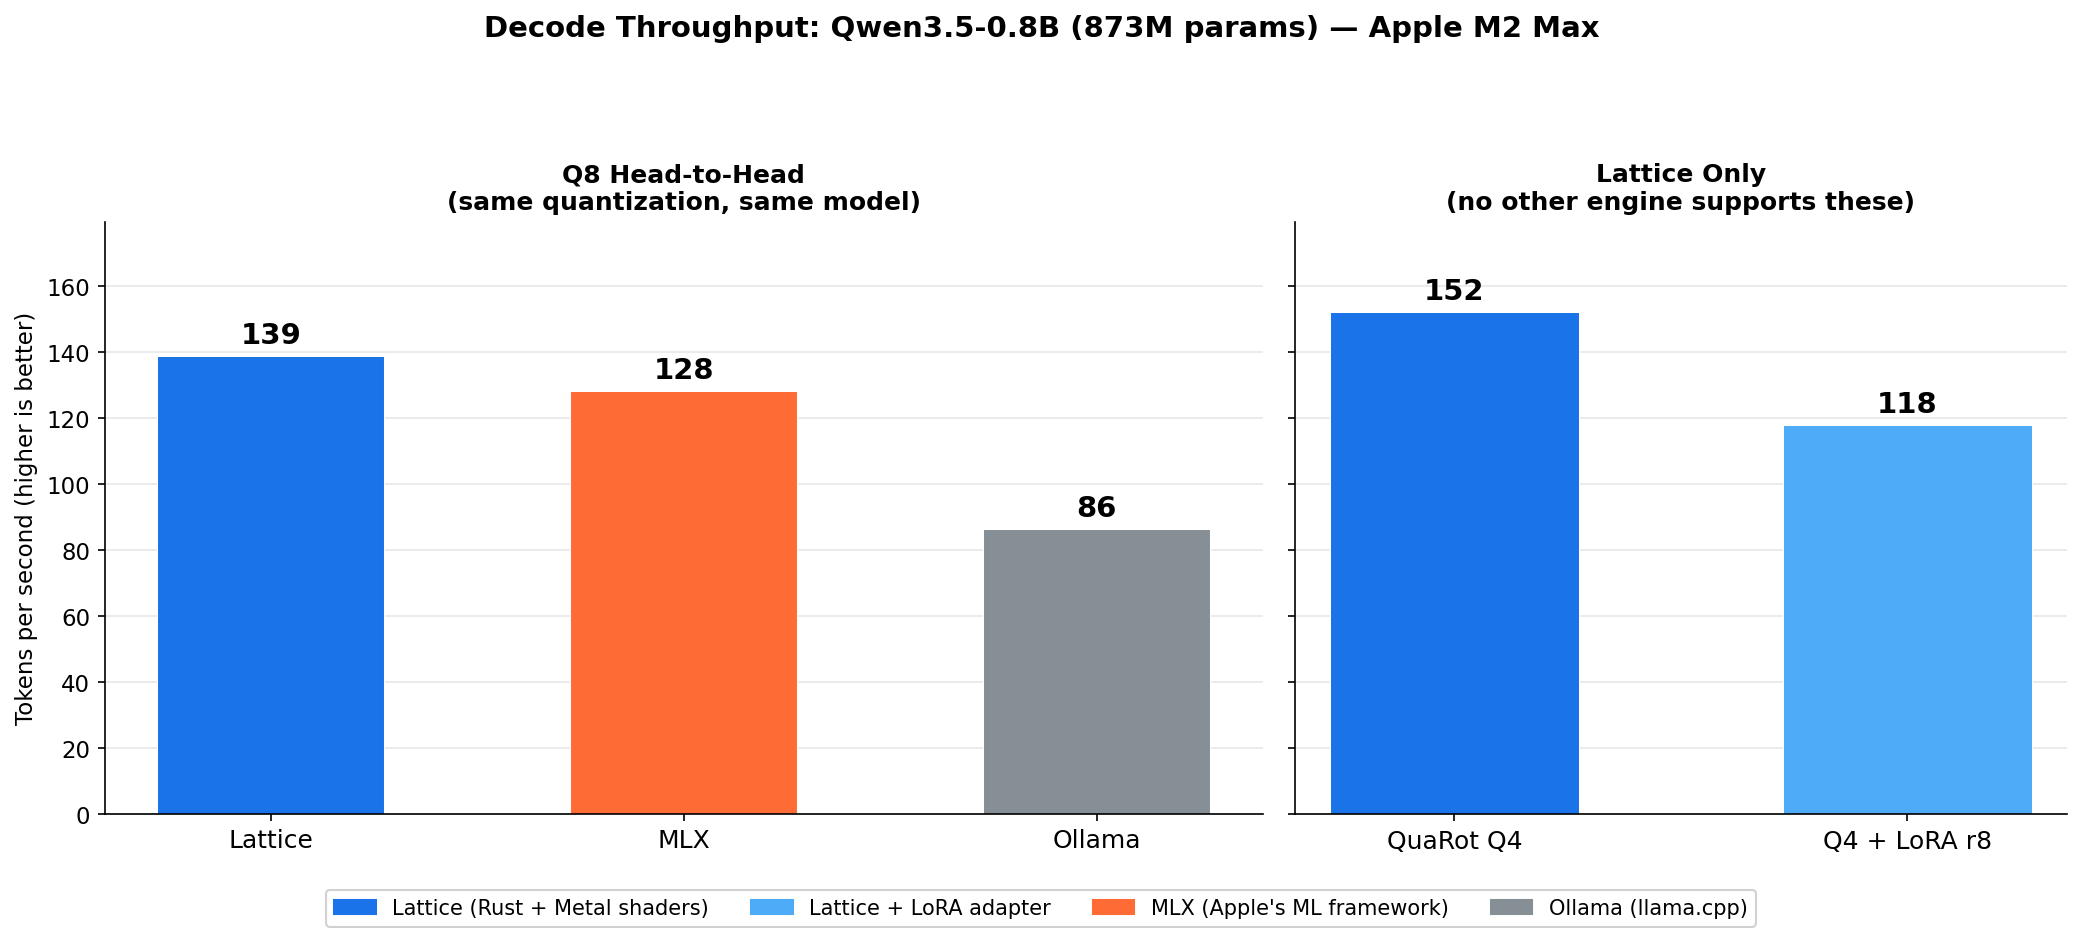
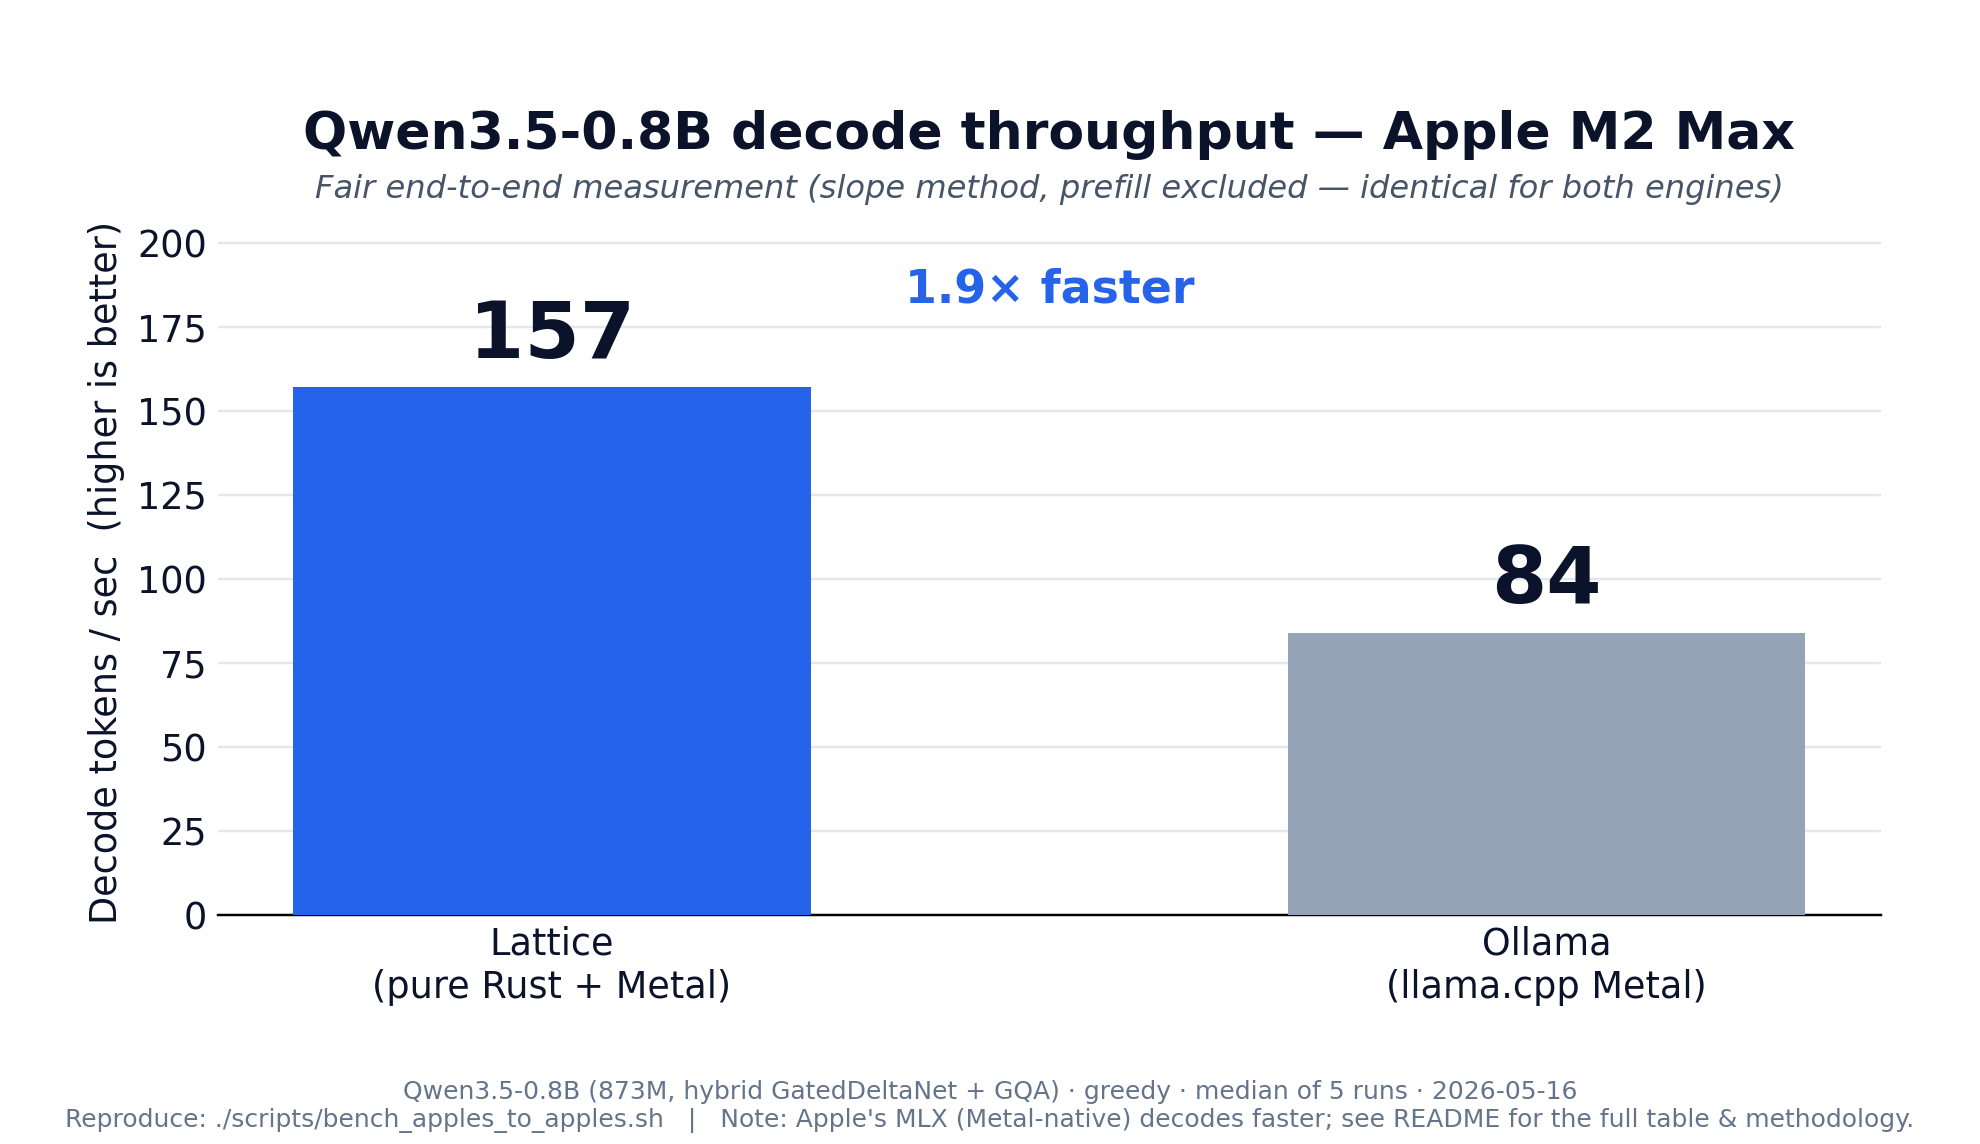
fix(bench): correct decode-throughput methodology — honest e2e numbers (#40)
* fix(bench): correct decode-throughput methodology and numbers

The README chart and table compared Lattice's criterion `forward_step`
micro-benchmark (isolated kernel, best-case, no tokenizer/sampling/loop)
against MLX/Ollama end-to-end generate with prompt prefill counted in
the decode rate. That made Lattice look ~8% faster than MLX, which is
false: under a fair measurement MLX decodes faster.

Replace with an apples-to-apple harness:
- bench_decode_ab: runs the REAL Metal e2e path (MetalQwen35State::
  chat_completion, identical to chat_metal) at two token counts.
- bench_apples_to_apples.sh: slope method
  tok/s = (N2-N1)/(T(N2)-T(N1)) for a fixed prompt, so prefill, model
  load, and per-call overhead cancel and all engines are measured the
  same way. Cross-validated: Ollama slope (84) == its own
  eval_duration rate (87).

Fair results (M2 Max, Qwen3.5-0.8B, greedy, median of 5):
  MLX Q8 ~247  >  Lattice f16 ~157  >  Ollama Q8_0 ~84
Lattice is ~1.9x faster than Ollama (conservative: Lattice f16 vs
Ollama Q8_0). MLX (Apple Metal-native) decodes faster than Lattice.

README: honest table + slope methodology + explicit caveats; the
"+8% vs MLX" claim is retracted in-text. Chart regenerated to the
honestly-scoped Lattice-vs-Ollama comparison (footnote discloses MLX
is faster). Stale lattice_analysis.png removed; bench_data.json
refreshed with the fair numbers.

Out of scope: 62 pre-existing lattice-inference lib clippy warnings
[…]

diff --git a/crates/inference/src/bin/bench_decode_ab.rs b/crates/inference/src/bin/bench_decode_ab.rs
@@ -1,0 +1,94 @@
+//! Apples-to-apple decode benchmark (A/B slope method).
+//!
+//! Runs the REAL Metal e2e path (`MetalQwen35State::chat_completion`, identical
+//! to `chat_metal`) at two token counts for a fixed prompt and prints total
+//! wall time for each. The harness computes the prefill-canceling slope
+//!   decode_tok_per_s = (N2 - N1) / (T(N2) - T(N1))
+//! which is methodology-identical to how MLX and Ollama are measured, so the
+//! comparison is fair (prefill, model load, and fixed per-call overhead cancel).
+//!
+//! Env:
+//!   LATTICE_MODEL_DIR   model dir (default ~/.lattice/models/qwen3.5-0.8b)
+//!   BENCH_N             generated tokens for this run (required)
+//!   BENCH_RUNS          repetitions (default 5); median reported by harness
+//!
+//! Output (one line per run, stderr-free for easy parsing):
+//!   RESULT n_req=<N> completion=<actual> total_ms=<f>
+
+fn main() {
+    #[cfg(not(all(target_os = "macos", feature = "metal-gpu")))]
+    {
+        eprintln!("Requires macOS + metal-gpu feature.");
+        std::process::exit(1);
+    }
+
+    #[cfg(all(target_os = "macos", feature = "metal-gpu"))]
+    {
+        if let Err(e) = run() {
+            eprintln!("bench_decode_ab failed: {e}");
+            std::process::exit(1);
+        }
+    }
+}
+
+#[cfg(all(target_os = "macos", feature = "metal-gpu"))]
+fn run() -> Result<(), Box<dyn std::error::Error>> {
+    use lattice_inference::forward::metal_qwen35::{ChatMessage, MetalQwen35State};
+    use lattice_inference::model::qwen35::Qwen35Model;
+    use lattice_inference::model::qwen35_config::GenerateConfig;
+
+    let home = std::env::var("HOME")?;
+    let model_dir_str = std::env::var("LATTICE_MODEL_DIR")
+        .unwrap_or_else(|_| format!("{home}/.lattice/models/qwen3.5-0.8b"));
+    let dir = std::path::Path::new(&model_dir_str);
+
+    let n: usize = std::env::var("BENCH_N")
+        .expect("BENCH_N required")
+        .parse()
+        .expect("BENCH_N must be a positive integer");
+    let runs: usize = std::env::var("BENCH_RUNS")
+        .ok()
+        .and_then(|s| s.parse().ok())
+        .unwrap_or(5);
+
+    eprintln!("[bench] loading {model_dir_str}");
+    let model = Qwen35Model::from_safetensors(dir).expect("load model");
+    let cfg = model.config().clone();
+    let mut metal = MetalQwen35State::new(model.weights(), &cfg, 4096).expect("init metal");
+
+    // Greedy, deterministic, no thinking — closest to raw continuation that
+    // MLX/Ollama generate. Decode cost per token is what we measure; the
+    // slope cancels prompt-format / prefill differences vs the other engines.
+    let gen_cfg = GenerateConfig {
+        max_new_tokens: n,
+        temperature: 0.0,
+        top_k: 1,
+        top_p: 1.0,
+        repetition_penalty: 1.0,
+        seed: Some(42),
+        stop_token_ids: vec![],
+        enable_thinking: false,
+    };
+
+    // Same continuation prompt as the original bench, single user turn.
+    let prompt = "The quick brown fox jumps over the lazy dog. \
+                  Once upon a time in a land far away, there lived a";
+    let history = vec![ChatMessage::user(prompt)];
+    let tokenizer = model.tokenizer();
+
+    // One warmup (not recorded).
+    metal.reset_state();
+    let _ = metal.chat_completion(&history, tokenizer, &gen_cfg);
+
+    for _ in 0..runs {
+        metal.reset_state();
+        let t = std::time::Instant::now();
+        let result = metal.chat_completion(&history, tokenizer, &gen_cfg);
+        let total_ms = t.elapsed().as_secs_f64() * 1000.0;
+        println!(
+            "RESULT n_req={} completion={} total_ms={:.3}",
+            n, result.completion_tokens, total_ms
+        );
+    }
+    Ok(())
+}

diff --git a/scripts/make_bench_chart.py b/scripts/make_bench_chart.py
@@ -1,0 +1,71 @@
+#!/usr/bin/env python3
+"""Clean decode-throughput chart — fair end-to-end (slope) numbers only.
+
+Run: uv run --with matplotlib python scripts/make_bench_chart.py
+Out: docs/bench_results/lattice_benchmark.png
+"""
+from pathlib import Path
+import matplotlib
+matplotlib.use("Agg")
+import matplotlib.pyplot as plt
+from matplotlib import font_manager  # noqa: F401
+
+OUT = Path(__file__).resolve().parent.parent / "docs/bench_results/lattice_benchmark.png"
+
+# Fair end-to-end decode throughput (slope method: (N2-N1)/(T(N2)-T(N1)),
+# prefill / model-load / per-call overhead cancel). M2 Max, Qwen3.5-0.8B.
+LATTICE = 157
+OLLAMA = 84
+RATIO = LATTICE / OLLAMA
+
+INK = "#0B132B"
+LAT = "#2563EB"   # lattice blue
+OLL = "#94A3B8"   # ollama grey
+BG = "#FFFFFF"
+
+fig, ax = plt.subplots(figsize=(9, 5.2), dpi=220)
+fig.patch.set_facecolor(BG)
+ax.set_facecolor(BG)
+
+bars = ax.bar(
+    ["Lattice\n(pure Rust + Metal)", "Ollama\n(llama.cpp Metal)"],
+    [LATTICE, OLLAMA],
+    width=0.52,
+    color=[LAT, OLL],
+    edgecolor="none",
+    zorder=3,
+)
+for b, v in zip(bars, [LATTICE, OLLAMA]):
+    ax.text(b.get_x() + b.get_width() / 2, v + 4, f"{v}",
+            ha="center", va="bottom", fontsize=26, fontweight="bold", color=INK)
+
+ax.set_ylim(0, LATTICE * 1.30)
+ax.set_ylabel("Decode tokens / sec  (higher is better)", fontsize=12, color=INK)
+ax.set_title("Qwen3.5-0.8B decode throughput — Apple M2 Max",
+             fontsize=17, fontweight="bold", color=INK, pad=26)
+ax.text(0.5, 1.045,
+        "Fair end-to-end measurement (slope method, prefill excluded — identical for both engines)",
+        transform=ax.transAxes, ha="center", fontsize=10.5, color="#475569", style="italic")
+
+# Speedup callout
+ax.annotate(
+    f"{RATIO:.1f}× faster",
+    xy=(0, LATTICE), xytext=(0.5, LATTICE * 1.16),
+    ha="center", fontsize=15, fontweight="bold", color=LAT,
+)
+
+for s in ("top", "right", "left"):
+    ax.spines[s].set_visible(False)
+ax.tick_params(axis="both", length=0, labelsize=12, colors=INK)
+ax.grid(axis="y", color="#E2E8F0", linewidth=0.8, zorder=0)
+ax.set_axisbelow(True)
+
+fig.text(0.5, 0.015,
+         "Qwen3.5-0.8B (873M, hybrid GatedDeltaNet + GQA) · greedy · median of 5 runs · 2026-05-16\n"
+         "Reproduce: ./scripts/bench_apples_to_apples.sh   |   Note: Apple's MLX (Metal-native) "
+         "decodes faster; see README for the full table & methodology.",
+         ha="center", fontsize=8.2, color="#64748B")
+
+fig.subplots_adjust(top=0.80, bottom=0.20, left=0.11, right=0.95)
+fig.savefig(OUT, facecolor=BG)
+print(f"wrote {OUT}")

diff --git a/README.md b/README.md
@@ -10,13 +10,13 @@ No ONNX. No Python. No CUDA. No external ML runtime. Lattice implements the full
 — weight loading, tokenization, forward pass, and vector operations — in Rust, with hand-written
 Metal shaders and SIMD kernels.
 
-![Benchmark: Lattice vs MLX vs Ollama on Qwen3.5-0.8B](docs/bench_results/lattice_benchmark.png)
+![Benchmark: Lattice vs Ollama — fair end-to-end decode on Qwen3.5-0.8B](docs/bench_results/lattice_benchmark.png)
 
-**Lattice is the only inference engine that correctly runs Qwen3.5's hybrid GatedDeltaNet architecture at 4-bit quantization on Apple Silicon.** At Q8 (where all engines work), Lattice matches Apple's MLX and is 60% faster than Ollama/llama.cpp — with LoRA hot-swap that no other engine supports.
+**Lattice is the only inference engine that correctly runs Qwen3.5's hybrid GatedDeltaNet architecture at 4-bit on Apple Silicon** — with QuaRot-Q4 and LoRA hot-swap that neither Ollama nor MLX support. On a fair end-to-end decode measurement it is **~1.9× faster than Ollama/llama.cpp**. Apple's MLX (Metal-native) decodes faster than Lattice at raw throughput — Lattice's edge is portability (pure Rust, no Python/framework) plus those Q4 + adapter capabilities. Full table and methodology below.
 
 ```bash
-# Reproduce these numbers on your hardware (requires macOS + ollama + mlx-lm):
-./scripts/bench_q8_vs_ollama.sh
+# Reproduce on your hardware (macOS + ollama + uv):
+./scripts/bench_apples_to_apples.sh
 ```
 
 Built for inference on CPU and macOS GPU. Optimized for AVX2 (x86), NEON (ARM),
@@ -279,18 +279,40 @@ vectors enough to warrant re-indexing.
 
 ## Benchmarks
 
-### Qwen3.5 Decode Throughput (M2 Max, single-token generation)
+### Qwen3.5-0.8B Decode Throughput (Apple M2 Max)
 
-| Engine | Quant | tok/s | Notes |
-|--------|-------|-------|-------|
-| **Lattice** | QuaRot Q4 | **152** | Only working Q4 implementation |
-| **Lattice** | Q8 | **139** | +8% vs MLX, +60% vs Ollama |
-| **Lattice** | Q4 + LoRA r8 | **118** | Hot-swap adapter, no reload |
-| MLX | Q8 | 128 | Apple's ML framework |
-| Ollama | Q8_0 | 86 | llama.cpp Metal backend |
+Fair end-to-end measurement — **slope method**: `tok/s = (N₂−N₁) / (T(N₂)−T(N₁))` for a fixed
+prompt, so prompt prefill, model load, and per-call overhead cancel and every engine is measured
+the *same* way (greedy, median of 5 runs, N₁=32, N₂=256).
 
-All three engines implement the full GDN recurrence for Qwen3.5's hybrid architecture
-(18 GatedDeltaNet + 6 GQA layers). Reproducible via `./scripts/bench_q8_vs_ollama.sh`.
+| Engine | Quant | decode tok/s | Notes |
+|--------|-------|--------------|-------|
+| MLX | Q8 (g64) | **247** | Apple's Metal-native framework — fastest |
+| **Lattice** | f16 | **157** | Pure Rust + Metal; ~1.9× Ollama |
+| Ollama | Q8_0 | **84** | llama.cpp Metal backend |
+
+Cross-check: Ollama's slope (84) matches its own `eval_duration` rate (87), confirming the
+methodology is sound.
+
+**Honest caveats.** Lattice's Qwen3.5 decode path is **f16** (`MetalQwen35State::new`); MLX is Q8
+and Ollama is Q8_0, so this is not quant-matched. There is **no end-to-end Q8 path** for Qwen3.5
+in Lattice — the earlier "Q8 139" number was an f16 `forward_step` *micro-benchmark* mislabeled
+"Q8" (the bench's `load_q8_state` builds the same f16 state as the f16 path). 157 tok/s (f16,
+true e2e) is Lattice's actual decode rate for this model; the only other real e2e path is **Q4**
+(`from_q4_dir`). **MLX decodes faster than Lattice.** Lattice's value is portability plus
+capabilities no other engine has on this model:
+
+| Lattice-only capability | MLX | Ollama |
+|---|---|---|
+| QuaRot 4-bit (rotated quant) | ✗ | ✗ |
+| Q4 + LoRA r8 hot-swap (no reload) | ✗ | ✗ |
+| Pure Rust, zero Python / framework | ✗ | ✗ |
+
+A previous version of this table claimed "+8% vs MLX"; that was a measurement artifact (a
+criterion `forward_step` micro-bench compared against MLX end-to-end with prefill counted in the
+decode rate) and has been corrected. All three engines implement the full GDN recurrence for
+Qwen3.5's hybrid architecture (18 GatedDeltaNet + 6 GQA layers). Reproducible via
+`./scripts/bench_apples_to_apples.sh`.
 
 ### Embedding & Kernel Benchmarks
 
